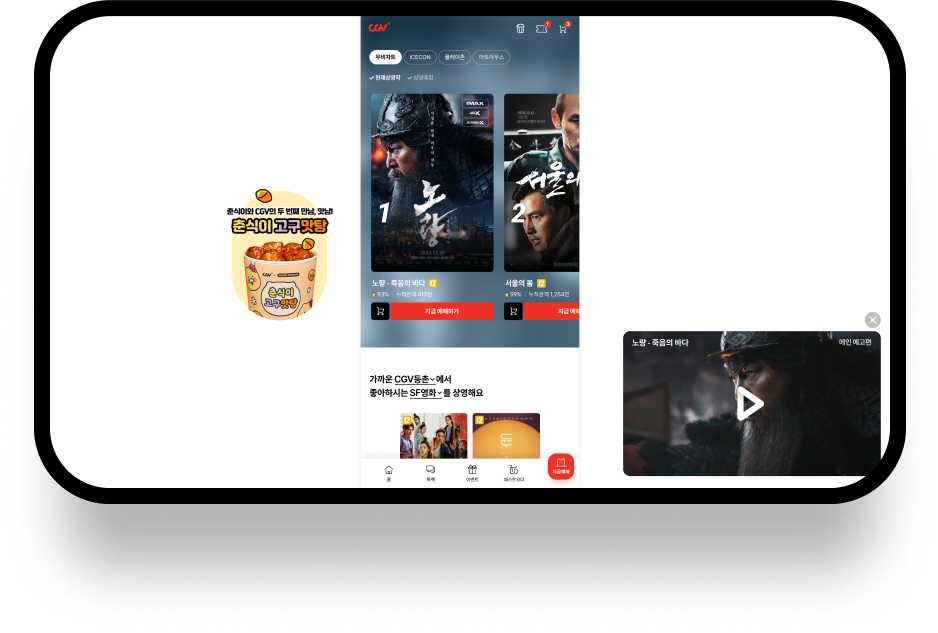
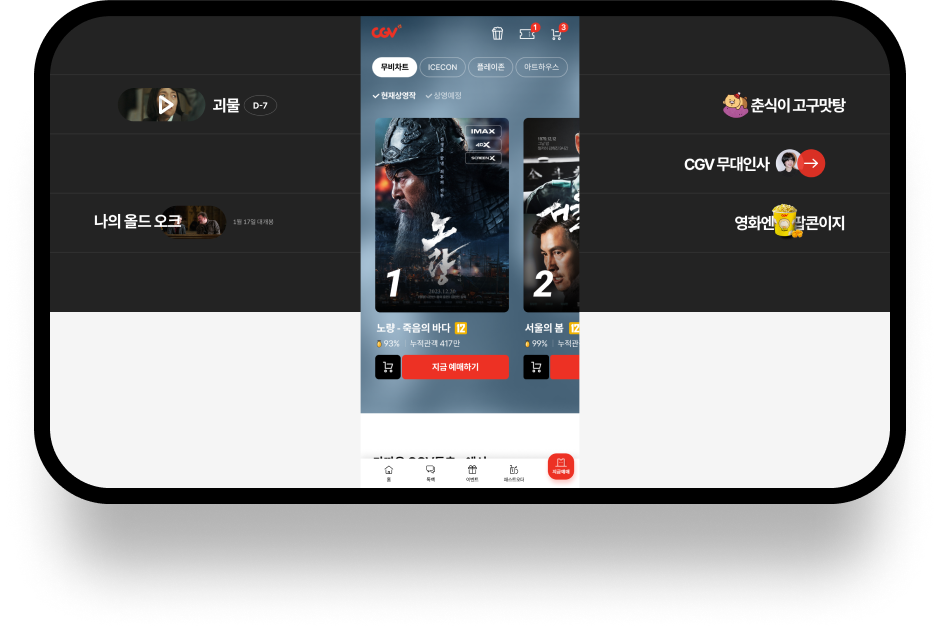
publishing;

diff --git a/html/mo_A_좌석선택.html b/html/mo_A_좌석선택.html
@@ -48,7 +48,7 @@
             <div class="content" style="padding-bottom:84px;">
                 <p style="margin:28px 0;"><img src="../images/mo/Type_A/img_sub_04-1.png"/></p>
                 <p><img src="../images/mo/Type_A/img_sub_04-2.png"/></p>
-                <p onclick="$(this).find('img').attr('src','../images/mo/Type_A/img_sub_04-3-1.png'); $('.warning').hide();" style="margin-top:21px;"><img src="../images/mo/Type_A/img_sub_04-3.png"/></p>
+                <p onclick="$(this).find('img').attr('src','../images/mo/Type_A/img_sub_04-3-1.png'); $('.warning').hide(); $('.btnSection_bottom span').siblings('img').attr('src','../images/mo/Type_A/img_sub_04-4-1.png'); " style="margin-top:21px;"><img src="../images/mo/Type_A/img_sub_04-3.png"/></p>
             </div>
         </div>
         <footer>
@@ -58,7 +58,7 @@
     <div class="btnSection_bottom">
         <img src="../images/mo/Type_A/img_sub_04-4-0-1.png" class="warning" onclick="$(this).hide();">
         <p style="position:relative;">
-            <span onclick="$(this).slideUp(); $(this).siblings('img').attr('src','../images/mo/Type_A/img_sub_04-4-1.png'); $(this).parent().siblings('a').find('img').attr('src','../images/mo/Type_A/btn_sub_04-2.png');" style="position:absolute; right:0; bottom:72px; left:0; display:none;"><img src="../images/mo/Type_A/img_sub_04-4-0.png"/></span>
+            <span onclick="$(this).slideUp(); $(this).parent().siblings('a').find('img').attr('src','../images/mo/Type_A/btn_sub_04-2.png');" style="position:absolute; right:0; bottom:72px; left:0; display:none;"><img src="../images/mo/Type_A/img_sub_04-4-0.png"/></span>
             <img src="../images/mo/Type_A/img_sub_04-4.png" onclick="$(this).siblings().slideDown();"/>
         </p>
         <a href="./mo_A_매점.html"><img src="../images/mo/Type_A/btn_sub_04-1.png"/></a>

diff --git a/html/pc.html b/html/pc.html
@@ -14,7 +14,10 @@
     <link rel="stylesheet" href="../css/mo_main.css" type="text/css">
     <link rel="stylesheet" href="../css/main_a.css" type="text/css">
     <style>
-        body {background-color:#232323;}
+        body, .bg_wrap {background-image:url('../images/common/bg_pc.png'); background-position:0 0; background-repeat:repeat-x;}
+        .bg_wrap {height:677px; position:fixed; top:0; right:0; left:0; z-index:0; display:flex; flex-wrap:nowrap; align-items:center;}
+        .bg_wrap div {width:100%;}
+        .bg_wrap img {margin:0 auto;}
         body > div > div {width:100%;}
         .action_bar {width:500px; margin-left:-250px; left:50%;}
     </style>
@@ -116,6 +119,11 @@
 </head>
 
 <body>
+    <div class="bg_wrap">
+        <div><img src="../images/common/bg-wrap_1.png" style="width:419px" /></div>
+        <div style="width:500px;">&nbsp;</div>
+        <div><img src="../images/common/bg_wrap_2.png" style="width:371px;" /></div>
+    </div>
     <div style="display:flex; justify-content:center;">
         <!-- left -->
         <div class="left">Left</div>

diff --git a/css/main_b_sub_2.css b/css/main_b_sub_2.css
@@ -7,7 +7,7 @@ body::-webkit-scrollbar {display: none;}
 
 body {background-color:#000; overflow-x:hidden;}
 
-a.home, a.talk, a.movie, a.cgvbag {position:absolute; display:block; top:0; width:40px; height:40px;}
+a.home {position:absolute; display:block; top:0; width:40px; height:40px;}
 
 .content {position:relative;}
 .inner {width:94%; margin:0 auto;}
@@ -24,9 +24,10 @@ a.close{position:absolute; display:block; top:8px; right:5px; width:40px; height
 .key {position:absolute; bottom:0px; left:0;}
 /* a {position:absolute; display:block; top:0; width:40px; height:40px;} */
 a.home {top:10px; left:10px}
-a.talk {width:110px; top:570px; left:15px}
-a.movie {width:110px; top:570px; left:130px}
-a.cgvbag {width:110px; top:570px; left:250px}
+a.talk, a.movie, a.cgvbag {width:33.3333%; height:40px; top:745px; position:absolute;}
+a.talk {left:0}
+a.movie {left:33.3333%}
+a.cgvbag {left:66.666%}
 a.close {right:0 !important;}
 .action_bar .homego {left:32px !important;}
 .action_bar .review {left:210px !important;}

diff --git a/html/mo_B_sub_01.html b/html/mo_B_sub_01.html
@@ -42,10 +42,15 @@
     <div id="wrap">
         <header style="margin-top:10px;">
             <img src="../images/mo/Type_B/sub_Header-1.png" alt="">
-            <a href="../html/mo_B_main.html" class="sub_home"></a>
+            <a href="../html/mo_B_main.html" class="sub_home" style="  display: block;
+            position: absolute;
+            top: 0;
+            right: 0;
+            width: 50px;
+            height: 78px;"></a>
         </header>
 
-        <div id="container" style="margin-top: -10px; padding-top:20px; background-color: #fff;">
+        <div id="container" style="margin-top: -10px; padding-top:20px; background-color: #fff;" onclick="location.href='./mo_B_sub_01_1.html'">
             <div class="content">
                 <img src="../images/mo/Type_B/댓글영역-1.png" alt="">
                 <a href="../html/mo_B_sub_01_1.html" class="retalkpath"></a>

diff --git a/html/index.html b/html/index.html
@@ -13,7 +13,7 @@
     <link rel="stylesheet" href="../css/swiper.css" type="text/css">
 
     <style>
-        body {height:100%; background-color:#2e2e2e;}
+        body {height:100%; background-color:#222;}
         #wrap {height:100vh; display:flex; flex-direction:column; justify-content:space-between;}
         header {padding-top:60px; text-align:center;}
         header span {width:115px; margin:0 auto; display:block;}

diff --git a/html/mobile.html b/html/mobile.html
@@ -13,8 +13,8 @@
     <link rel="stylesheet" href="../css/mo_main.css" type="text/css">
     <script>
         $(document).ready(function(){
-            var frame_H = ($(window).height() * 0.9);
-            var frame_W = (frame_H * 0.52299829);
+            var frame_H = 1151;
+            var frame_W = 602;
 
             $('.iframe_inner').css({
                 width:frame_W,

diff --git a/css/main_b.css b/css/main_b.css
@@ -54,7 +54,7 @@ header .talkback_go {width:45px; top:14px; left:168px;}
 .event .btn {margin-top:30px}
 
 footer {position:relative;}
-footer > div > img {width:60px; height:60px; position:absolute; top:65%; right:3px}
+footer > div > img {width:78px; height:78px; position:absolute; top:65%; right:3px}
 
 
 /*--------talkback-----------*/
